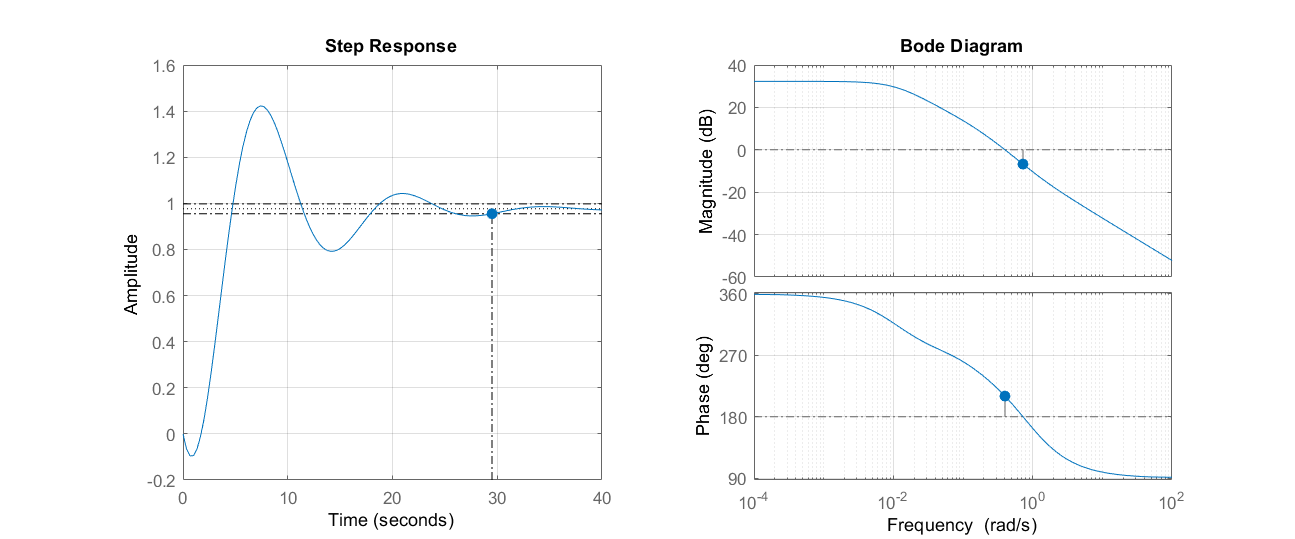
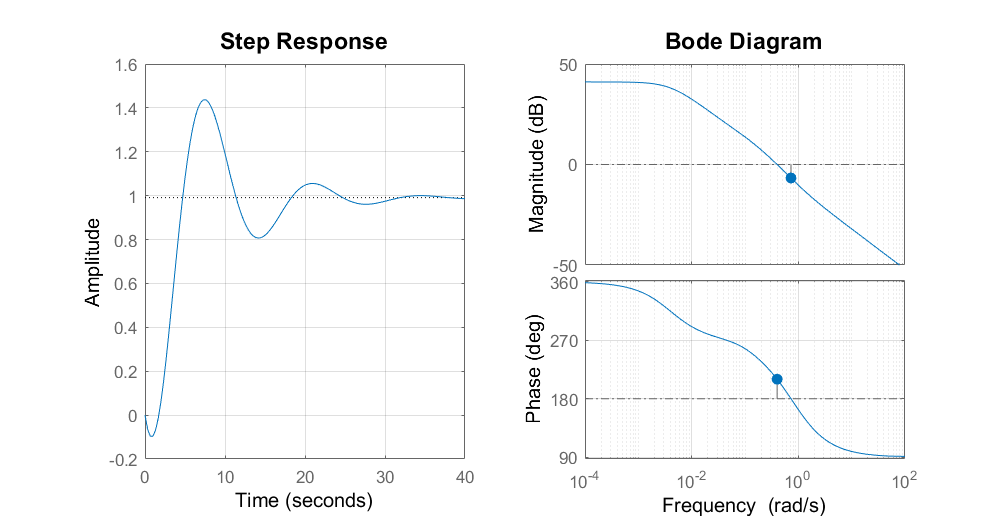
Today's work!

diff --git a/Exc1/compExc1.m b/Exc1/compExc1.m
@@ -6,9 +6,9 @@ clear all
 close all
 s = tf('s');
 G = 3*(1-s)/((5*s + 1)*(10*s+1));
-figure; subplot(1,2,1);
+figure; subplot(1,2,2);
 bode(G); grid on; title('Original system G')
-subplot(1,2,2); step(feedback(G,1)); title(''); grid on
+subplot(1,2,1); step(feedback(G,1)); title(''); grid on
 
 % The phase margin should be 30deg at the cross-over frequency wc = 0.4 rad/s.
 
@@ -20,7 +20,7 @@ K = 1/m;
 
 % figure; 
 % bode(G*K); grid on; title('G/m0') 
-beta  = 0.47;
+beta  = 0.455;
 tauD = 1/(wc*sqrt(beta));
 
 Flead = K*(tauD*s + 1)/(beta*tauD*s + 1);
@@ -33,20 +33,73 @@ Flead = K1*(tauD*s + 1)/(beta*tauD*s + 1);
 tauI = 5/wc;
 
 T = minreal(feedback(G*Flead,1));
-% figure; step(T); grid on
+figure; step(T); grid on; title('30 deg \phi_m lead lag compensated')
 S = feedback(1,G*Flead);
-gamma = 0.14;
+gamma = 0.05;
 
 % lead-lag link
 Flag = (tauI*s + 1)/(tauI*s + gamma);
 
 [m,p] =bode(Flead*Flag*G,0.4)
-L = Flead*Flag*G/m;
+L30 = Flead*Flag*G/m;
 
-S = feedback(1,L);
-T = minreal(feedback(L,1));
-figure; subplot(1,2,1)
-step(T); grid on;
+S30 = feedback(1,L30);
+T30 = minreal(feedback(L30,1));
+figure; subplot(1,2,1); 
+step(T30); grid on; title('30 deg \phi_m lead lag compensated')
 subplot(1,2,2)
 bode(Flead*Flag*G/m); grid on
-[Gm,Pm,wp,wc] = margin(L)
+[Gm,Pm,wp,wc] = margin(L30);
+
+%% Task 4.1.2 bandwidth
+
+bw = bandwidth(T); % of closed loop sys [rad/s]
+figure; bode(T)
+
+%% Task 4.1.3 new lead lag
+
+% The phase margin should be 30deg at the cross-over frequency wc = 0.4 rad/s.
+
+[m,p] = bode(G,0.4); %% vi vill att detta ska returnera 1 och 30 deg = 0.5235987756 rad
+
+wc = 0.4;
+K0 = 1/m;
+
+% Lead-lag parameters
+beta  = 0.20;
+tauD = 1/(wc*sqrt(beta));
+
+Flead = K0*(tauD*s + 1)/(beta*tauD*s + 1);
+[m,p] =bode(Flead*G,0.4)
+K1 = K0/m
+Flead = K1*(tauD*s + 1)/(beta*tauD*s + 1);
+
+[Gm,Pm,wp,wc] = margin(Flead*G);
+
+tauI = 5/wc;
+
+T = minreal(feedback(G*Flead,1));
+% figure; step(T); grid on
+S = feedback(1,G*Flead);
+gamma = 0.05;
+
+% lead-lag link
+Flag = (tauI*s + 1)/(tauI*s + gamma);
+
+[m,p] =bode(Flead*Flag*G,0.4)
+L50 = Flead*Flag*G/m;
+
+S50 = feedback(1,L50);
+T50 = minreal(feedback(L50,1));
+figure; subplot(1,2,1); 
+step(T50); grid on; title('50 deg \phi_m lead lag compensated')
+subplot(1,2,2)
+bode(Flead*Flag*G/m); grid on
+[Gm,Pm,wp,wc] = margin(L50)
+bw50 = bandwidth(T50);
+figure; bode(T50); title('50 deg \phi_m'); grid on
+
+
+bode(T30,T50)
+figure;
+step(T30,T50); grid on

diff --git a/Exc1/compExc1Task2.m b/Exc1/compExc1Task2.m
@@ -1,0 +1,57 @@
+%% Task 4.2.1
+% for which frew is control action needed? 
+clear all
+close all
+s = tf('s');
+G = 20/((s + 1)*((s/20)^2+s/20 + 1));
+figure; bode(G); grid on 
+Gd = 10/(s + 1);
+figure;  bode(Gd); title('G_d'); grid on
+wc = 9.95; % rad/s avlest fran bode av G
+
+Fy = 1/G*wc/s
+
+p0 = 100*wc;
+p1 = 1000*wc;
+
+Fy0 = p0*p0*Fy/((s+p0)^2);
+Fy1 = p1*p1*Fy/((s+p1)^2);
+
+
+figure; bode(Fy*G,Fy0*G,Fy1*G); grid on; 
+legend('Improper','p = 100 \omegac','p = 1000 \omegac'); 
+lines = findobj(gcf,'Type','Line');
+for i = 1:numel(lines)
+  lines(i).LineWidth = 2.0;
+end
+
+figure(3); step(1/(1+Fy*G)*Gd, 1/(1+Fy0*G)*Gd,1/(1+Fy1*G)*Gd);
+legend('Improper','p = 100 \omegac','p = 1000 \omegac'); 
+lines = findobj(gcf,'Type','Line');
+for i = 1:numel(lines)
+  lines(i).LineWidth = 2.0;
+end
+%%
+% we want abs(1/(1+Fy*G)*Gd) < 1
+figure(4); bodemag( 1/(1+Fy0*G)*Gd,1/(1+Fy1*G)*Gd); legend('p = 100 \omegac','p = 1000 \omegac'); title('Closed loop < 1')
+% we want |L|>|G_d| at frec in 0<wc
+figure(5); bodemag(Fy0*G,Fy1*G,'r-.',Gd,'k.-.',[1,wc])
+lines = findobj(gcf,'Type','Line');
+for i = 1:numel(lines)
+  lines(i).LineWidth = 2.0;
+end
+legend('L p = 100 \omegac','L p = 1000 \omegac', 'G_d'); title('abs(L) > abs(Gd) ');
+
+%% 
+wi = 8; % best performance! compared to 7 and 10 
+figure(6); clf; hold on
+for wi = [10,12,14]
+    Fy = (s + wi)/s*1/G*Gd %% which is improper so we add two poles
+    Fy2 = (s + wi)/s*1/G*Gd/((s+p1)^2)*p1^2
+    step(1/(1+Fy2*G)*Gd);
+end
+legend('\omega_I = 10','\omega_I = 12','\omega_I = 14'); grid on;
+lines = findobj(gcf,'Type','Line');
+for i = 1:numel(lines)
+  lines(i).LineWidth = 1.5;
+end
